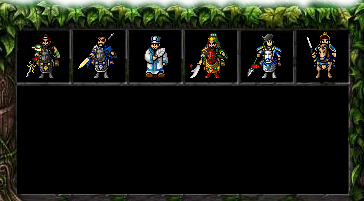
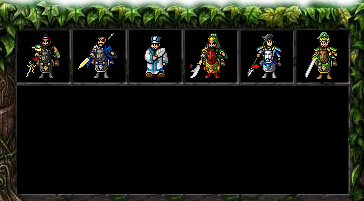
优化游戏

Changed region(s): [[0.8159, 0.1493, 0.9368, 0.3881]]

diff --git a/src/ui/layaUI.max.all.js b/src/ui/layaUI.max.all.js
@@ -45,6 +45,6 @@ var tafangUI=(function(_super){
 
 		}
 
-		tafangUI.uiView={"type":"View","props":{"width":750,"height":1250},"child":[{"type":"Image","props":{"y":75,"x":10,"width":300,"skin":"pic/bai_bg.png","height":161}},{"type":"Text","props":{"y":130,"x":25,"width":193,"var":"play1_score","text":"玩家1杀敌：","height":34,"fontSize":32,"color":"#cd1915"}},{"type":"Text","props":{"y":175,"x":25,"width":193,"var":"play2_score","text":"玩家2杀敌：","height":32,"fontSize":32,"color":"#192cb9"}},{"type":"Image","props":{"y":0,"x":0,"width":750,"var":"top_bg","skin":"pic/top_bg.png","sizeGrid":"1","height":65,"alpha":1}},{"type":"Text","props":{"y":14,"x":84,"width":123,"var":"jinbi_text","text":"0","height":34,"fontSize":32,"color":"#ffffff"}},{"type":"Text","props":{"y":14,"x":310,"width":123,"var":"mucai_text","text":"0","height":34,"fontSize":32,"color":"#ffffff"}},{"type":"Text","props":{"y":13,"x":495,"width":123,"var":"renkou_text","text":"0","height":34,"fontSize":32,"color":"#ffffff"}},{"type":"Text","props":{"y":13,"x":623,"width":105,"var":"game_time","name":"game_time","height":34,"fontSize":28,"color":"#ffffff","align":"center"}},{"type":"Text","props":{"y":85,"x":25,"width":193,"var":"jidi","text":"基地生命：30","height":34,"fontSize":32,"color":"#b514b5"}},{"type":"Label","props":{"y":553,"x":20,"wordWrap":true,"width":500,"var":"xitong_send","text":"系统提示：","strokeColor":"#de810a","stroke":1,"leading":10,"height":107,"fontSize":26,"color":"#f9ab04"}},{"type":"Label","props":{"x":20,"wordWrap":true,"width":500,"var":"send_box","top":245,"overflow":"scroll","name":"send_box","leading":10,"height":300,"fontSize":26,"color":"#ffffff"}},{"type":"Image","props":{"x":0,"width":750,"visible":false,"var":"change_build","skin":"pic/bottom.png","name":"change_build","mouseThrough":false,"mouseEnabled":true,"layoutEnabled":true,"height":390,"bottom":3},"child":[{"type":"Label","props":{"y":59,"x":36,"width":107,"var":"build_1","text":"张飞","name":"build_1","mouseEnabled":true,"layoutEnabled":true,"height":101,"fontSize":16,"color":"#ffffff"}},{"type":"Label","props":{"y":59,"x":152,"width":107,"var":"build_2","text":"夏侯惇","name":"build_2","mouseEnabled":true,"layoutEnabled":true,"height":101,"fontSize":16,"color":"#ffffff"}},{"type":"Label","props":{"y":59,"x":268,"width":107,"var":"build_3","text":"诸葛亮","name":"build_3","mouseEnabled":true,"layoutEnabled":true,"height":101,"fontSize":16,"color":"#ffffff"}},{"type":"Label","props":{"y":59,"x":383,"width":105,"var":"build_4","text":"关羽","name":"build_4","mouseEnabled":true,"layoutEnabled":true,"height":101,"fontSize":16,"color":"#ffffff"}},{"type":"Label","props":{"y":59,"x":498,"width":107,"var":"build_5","text":"赵云","name":"build_5","mouseEnabled":true,"layoutEnabled":true,"height":101,"fontSize":16,"color":"#ffffff"}},{"type":"Label","props":{"y":59,"x":612,"width":107,"var":"build_6","text":"曹操","name":"build_6","mouseEnabled":true,"layoutEnabled":true,"height":101,"fontSize":16,"color":"#ffffff"}},{"type":"Label","props":{"y":175,"x":50,"width":63,"var":"build_name","text":"张飞","layoutEnabled":true,"height":28,"fontSize":28,"color":"#f4730e","bold":true}},{"type":"Label","props":{"y":220,"x":50,"width":134,"var":"build_attack","text":"攻击：","layoutEnabled":true,"height":27,"fontSize":24,"color":"#ffffff"}},{"type":"Label","props":{"y":220,"x":216,"width":139,"var":"build_range","text":"范围：","layoutEnabled":true,"height":25,"fontSize":24,"color":"#ffffff"}},{"type":"Label","props":{"y":220,"x":386,"width":136,"var":"build_jiange","text":"速度：","layoutEnabled":true,"height":27,"fontSize":24,"color":"#ffffff"}},{"type":"Label","props":{"y":220,"x":554,"width":145,"layoutEnabled":true,"height":26,"fontSize":24,"color":"#ffffff"}},{"type":"Label","props":{"y":260,"x":50,"width":57,"text":"大招：","layoutEnabled":true,"height":23,"fontSize":24,"color":"#ffffff"}},{"type":"Label","props":{"y":260,"x":120,"wordWrap":true,"width":465,"var":"build_big_detail","text":"致命一击，每攻击5次触发一次大招。","rotation":0,"leading":10,"layoutEnabled":true,"height":116,"fontSize":24,"color":"#ffffff"}},{"type":"Label","props":{"y":178,"x":180,"width":249,"var":"build_consume","text":"消耗：500黄金、2人口","layoutEnabled":true,"height":27,"fontSize":24,"color":"#f8ee08"}},{"type":"Image","props":{"y":245,"x":590,"width":130,"var":"btn_jianzao","skin":"pic/jianzao.png","name":"btn_jianzao","mouseThrough":true,"mouseEnabled":true,"height":130}}]},{"type":"Image","props":{"y":474,"x":196,"width":356,"visible":false,"var":"btn_shengli","skin":"pic/shengli.png","mouseThrough":true,"mouseEnabled":true,"height":144}},{"type":"Image","props":{"y":475,"x":197,"width":353,"visible":false,"var":"btn_shibai","skin":"pic/shibai.png","mouseThrough":true,"mouseEnabled":true,"height":143}}]};
+		tafangUI.uiView={"type":"View","props":{"width":750,"height":1250},"child":[{"type":"Image","props":{"y":75,"x":10,"width":300,"skin":"pic/bai_bg.png","height":161}},{"type":"Text","props":{"y":130,"x":25,"width":193,"var":"play1_score","text":"玩家1杀敌：","height":34,"fontSize":32,"color":"#cd1915"}},{"type":"Text","props":{"y":175,"x":25,"width":193,"var":"play2_score","text":"玩家2杀敌：","height":32,"fontSize":32,"color":"#192cb9"}},{"type":"Image","props":{"y":0,"x":0,"width":750,"var":"top_bg","skin":"pic/top_bg.png","sizeGrid":"1","height":65,"alpha":1}},{"type":"Text","props":{"y":14,"x":84,"width":123,"var":"jinbi_text","text":"0","height":34,"fontSize":32,"color":"#ffffff"}},{"type":"Text","props":{"y":14,"x":310,"width":123,"var":"mucai_text","text":"0","height":34,"fontSize":32,"color":"#ffffff"}},{"type":"Text","props":{"y":13,"x":495,"width":123,"var":"renkou_text","text":"0","height":34,"fontSize":32,"color":"#ffffff"}},{"type":"Text","props":{"y":13,"x":623,"width":105,"var":"game_time","name":"game_time","height":34,"fontSize":28,"color":"#ffffff","align":"center"}},{"type":"Text","props":{"y":85,"x":25,"width":193,"var":"jidi","text":"基地生命：30","height":34,"fontSize":32,"color":"#b514b5"}},{"type":"Label","props":{"y":553,"x":20,"wordWrap":true,"width":500,"var":"xitong_send","text":"系统提示：","strokeColor":"#de810a","stroke":1,"leading":10,"height":107,"fontSize":26,"color":"#f9ab04"}},{"type":"Label","props":{"x":20,"wordWrap":true,"width":500,"var":"send_box","top":245,"overflow":"scroll","name":"send_box","leading":10,"height":300,"fontSize":26,"color":"#ffffff"}},{"type":"Image","props":{"x":0,"width":750,"visible":false,"var":"change_build","skin":"pic/bottom.png","name":"change_build","mouseThrough":false,"mouseEnabled":true,"layoutEnabled":true,"height":390,"bottom":3},"child":[{"type":"Label","props":{"y":59,"x":36,"width":107,"var":"build_1","text":"张飞","name":"build_1","mouseEnabled":true,"layoutEnabled":true,"height":101,"fontSize":16,"color":"#ffffff"}},{"type":"Label","props":{"y":59,"x":152,"width":107,"var":"build_2","text":"夏侯惇","name":"build_2","mouseEnabled":true,"layoutEnabled":true,"height":101,"fontSize":16,"color":"#ffffff"}},{"type":"Label","props":{"y":59,"x":268,"width":107,"var":"build_3","text":"诸葛亮","name":"build_3","mouseEnabled":true,"layoutEnabled":true,"height":101,"fontSize":16,"color":"#ffffff"}},{"type":"Label","props":{"y":59,"x":383,"width":105,"var":"build_4","text":"关羽","name":"build_4","mouseEnabled":true,"layoutEnabled":true,"height":101,"fontSize":16,"color":"#ffffff"}},{"type":"Label","props":{"y":59,"x":498,"width":107,"var":"build_5","text":"赵云","name":"build_5","mouseEnabled":true,"layoutEnabled":true,"height":101,"fontSize":16,"color":"#ffffff"}},{"type":"Label","props":{"y":59,"x":612,"width":107,"var":"build_6","text":"刘备","name":"build_6","mouseEnabled":true,"layoutEnabled":true,"height":101,"fontSize":16,"color":"#ffffff"}},{"type":"Label","props":{"y":175,"x":50,"width":63,"var":"build_name","text":"张飞","layoutEnabled":true,"height":28,"fontSize":28,"color":"#f4730e","bold":true}},{"type":"Label","props":{"y":220,"x":50,"width":134,"var":"build_attack","text":"攻击：","layoutEnabled":true,"height":27,"fontSize":24,"color":"#ffffff"}},{"type":"Label","props":{"y":220,"x":216,"width":139,"var":"build_range","text":"范围：","layoutEnabled":true,"height":25,"fontSize":24,"color":"#ffffff"}},{"type":"Label","props":{"y":220,"x":386,"width":136,"var":"build_jiange","text":"速度：","layoutEnabled":true,"height":27,"fontSize":24,"color":"#ffffff"}},{"type":"Label","props":{"y":220,"x":554,"width":145,"layoutEnabled":true,"height":26,"fontSize":24,"color":"#ffffff"}},{"type":"Label","props":{"y":260,"x":50,"width":57,"text":"大招：","layoutEnabled":true,"height":23,"fontSize":24,"color":"#ffffff"}},{"type":"Label","props":{"y":260,"x":120,"wordWrap":true,"width":465,"var":"build_big_detail","text":"致命一击，每攻击5次触发一次大招。","rotation":0,"leading":10,"layoutEnabled":true,"height":116,"fontSize":24,"color":"#ffffff"}},{"type":"Label","props":{"y":178,"x":180,"width":249,"var":"build_consume","text":"消耗：500黄金、2人口","layoutEnabled":true,"height":27,"fontSize":24,"color":"#f8ee08"}},{"type":"Image","props":{"y":245,"x":590,"width":130,"var":"btn_jianzao","skin":"pic/jianzao.png","name":"btn_jianzao","mouseThrough":true,"mouseEnabled":true,"height":130}}]},{"type":"Image","props":{"y":474,"x":196,"width":356,"visible":false,"var":"btn_shengli","skin":"pic/shengli.png","mouseThrough":true,"mouseEnabled":true,"height":144}},{"type":"Image","props":{"y":475,"x":197,"width":353,"visible":false,"var":"btn_shibai","skin":"pic/shibai.png","mouseThrough":true,"mouseEnabled":true,"height":143}}]};
 		return tafangUI;
 	})(View);

diff --git a/src/Game.js b/src/Game.js
@@ -39,10 +39,10 @@ var tafang = (function(_Laya){
         //当前选中的英雄
         this.selectBuild = null;
 
-        //测试参数
-        // this.guaiStartTime = 1000;
-        // this.guaiSpeed = 500;
-        // this.nextTime = 2;
+        //测试参数 
+         this.guaiStartTime = 1000;
+         //this.guaiSpeed = 500;
+         this.nextTime = 2;
         // this.guaiLength = 2;
         // this.lvExp = 1;
         // this.bossJiange = 2;
@@ -57,7 +57,7 @@ var tafang = (function(_Laya){
             'renkou' : 2,
             'mucai' : 0,
             'camp' : playerCamp,
-            'attack' : 900,
+            'attack' : 800,
             'range' : 450,
             'bigRange': 450,
             'bigType' : 3,
@@ -77,10 +77,10 @@ var tafang = (function(_Laya){
             'range' : 450,
             'bigRange' : 600,
             'bigType' : 1,
-            'bigDetail' : '掌控自然之力，召唤超级龙卷风对敌人发起攻击，每攻击10次触发一次。',
+            'bigDetail' : '掌控自然之力，召唤超级龙卷风对敌人发起攻击，每攻击8次触发一次。',
             'miji': '无',
             'jiange' : 1000,
-            'maxLen' : 10,
+            'maxLen' : 8,
             'lv' : 1
         },
         {
@@ -101,7 +101,7 @@ var tafang = (function(_Laya){
         },
         {
             'name' : '关羽',
-            'jinbi' : 8000,
+            'jinbi' : 7000,
             'renkou' : 4,
             'mucai' : 0,
             'camp' : playerCamp,
@@ -117,7 +117,7 @@ var tafang = (function(_Laya){
         },
         {
             'name' : '赵云',
-            'jinbi' : 25000,
+            'jinbi' : 20000,
             'renkou' : 5,
             'mucai' : 3,
             'camp' : playerCamp,
@@ -128,12 +128,12 @@ var tafang = (function(_Laya){
             'bigDetail' : '抢刃风暴，疯狂旋转百鸟朝凤枪，形成飓风攻击周围大片敌人，每攻击3次触发一次。攻击太高写不下...',
             'miji': '无',
             'jiange' : 1000,
-            'maxLen' : 5,
+            'maxLen' : 3,
             'lv' : 1
         },
         {
             'name' : '刘备',
-            'jinbi' : 90000,
+            'jinbi' : 50000,
             'renkou' : 5,
             'mucai' : 7,
             'camp' : playerCamp,
@@ -194,6 +194,7 @@ var tafang = (function(_Laya){
                 var loadBox = document.getElementById('loading');
                 loadBox.style.display = 'none';
                 //添加怪物容器
+                gameSelf.guaiBox.zOrder = 5;
                 gameSelf.guaiBox.pos(0,0);
                 gameSelf.guaiBox.name = 'guaiBox';
                 gameSelf.guaiBox.size(self.tiledMap.width, self.tiledMap.height);
@@ -222,6 +223,7 @@ var tafang = (function(_Laya){
                     gameSelf.startGuai();
                 })
                 
+                
 
                 //添加建筑层
                 self.MapBg = new Laya.Sprite();
@@ -229,6 +231,18 @@ var tafang = (function(_Laya){
                 self.MapBg.name = 'MapBg';
                 self.MapBg.size(self.tiledMap.width, self.tiledMap.height);
                 Laya.stage.addChild(self.MapBg);
+
+
+                //添加传送阵
+                var animation = Laya.Animation;
+                animation.createFrames(['pic/chuansong1.png','pic/chuansong2.png','pic/chuansong3.png'],'chuansong');
+                var chuansong = new Laya.Animation();
+                chuansong.size(100,100);
+                chuansong.interval = 200;
+                chuansong.x = -40;
+                chuansong.y = 500;
+                self.MapBg.addChild(chuansong);
+                chuansong.play(0,true,'chuansong');
 
                 //初始化位置
                 this.setPos(500,0);
@@ -241,7 +255,7 @@ var tafang = (function(_Laya){
                 gameSelf.gameinfo.addJifen(0,2);
 
                 //初始化资源
-                gameSelf.gameinfo.addJinbi(800);
+                gameSelf.gameinfo.addJinbi(500);
                 gameSelf.gameinfo.addMucai(10);
                 gameSelf.gameinfo.addRenkou(20);
                 
@@ -348,7 +362,7 @@ var tafang = (function(_Laya){
         gameinfo.build_consume.text = '消耗：'+thisBuildData.jinbi+'黄金、'+thisBuildData.renkou+'人口、'+thisBuildData.mucai+'木材';
         gameinfo.build_attack.text = '攻击：'+thisBuildData.attack;
         gameinfo.build_range.text = '范围：'+thisBuildData.range;
-        gameinfo.build_jiange.text = '攻速：'+thisBuildData.jiange/10;
+        gameinfo.build_jiange.text = '攻速：'+parseInt(100+(1000-thisBuildData.jiange)/10);
         gameinfo.build_big_detail.text = thisBuildData.bigDetail;
 
     };
@@ -514,11 +528,11 @@ var tafang = (function(_Laya){
                 if(boshu%this.bossJiange==0){
                     thisNum+=29;
                     if(boshu==60){
-                        thisGuai.init('guaiwu_player1','boss'+bossName,500*boshu*boshu*30,4,10+boshu*10,true); //阵营，名字，血量，移动速度，携带金币
+                        thisGuai.init('guaiwu_player1','boss'+bossName,600*boshu*boshu*30,4,boshu*50,true); //阵营，名字，血量，移动速度，携带金币
                         gameSelf.send('终极BOSS来袭，绝对不能放走它，不然就前功尽弃了！',true); 
                         Laya.timer.clear(this,shuaGuai);
                     }else{
-                        thisGuai.init('guaiwu_player1','boss'+bossName,500*boshu*boshu*25,4,10+boshu*10,true); //阵营，名字，血量，移动速度，携带金币
+                        thisGuai.init('guaiwu_player1','boss'+bossName,600*boshu*boshu*22,4,boshu*50,true); //阵营，名字，血量，移动速度，携带金币
                         gameSelf.send('警告：BOSS来袭，抓紧防御！',true);
                         setTimeout(function(){
                             gameSelf.send('',true);
@@ -528,8 +542,7 @@ var tafang = (function(_Laya){
                     bossName++;
                     if(bossName>4){bossName=1;}
                 }else{
-                    
-                    thisGuai.init('guaiwu_player1','guai'+guaiName,500*boshu*boshu,4+parseInt(boshu*0.06),10+boshu*5); //阵营，名字，血量，移动速度，携带金币
+                    thisGuai.init('guaiwu_player1','guai'+guaiName,600*boshu*boshu,4+parseInt(boshu*0.06),20+boshu*2); //阵营，名字，血量，移动速度，携带金币
                 }
                 
                 thisGuai.pos(-50,500);
@@ -565,18 +578,24 @@ var tafang = (function(_Laya){
             
             if(guai && guai.camp=='guaiwu_player1'){
                 //移动玩家1的怪物
-                if(guai.x>=3020){
+                if(guai.x>=3000){
                     guai.y += guai.run;
                 }else{
                     guai.x += guai.run;
                 };
                 //怪物通过，游戏生命减少
-                if(guai.y>=2000){
+                if(guai.y>=1800){
 
                     if(/boss/.test(guai.name)){
                         //基地血量信息
-                        this.jidiHp-=4;
-                        this.send('出逃1个BOSS，基地生命剩余'+this.jidiHp);
+                        if(guai.name=='boss4'){
+                            this.jidiHp=0;
+                            this.send('终极BOSS进入基地，基地生命剩余'+this.jidiHp);
+                        }else{
+                            this.jidiHp-=4;
+                            this.send('出逃1个BOSS，基地生命剩余'+this.jidiHp);
+                        };
+                        
                     }else{
                         //基地血量信息
                         this.jidiHp--;
@@ -587,12 +606,10 @@ var tafang = (function(_Laya){
 
                     
 
-                    //移除
-                    guai.removeSelf();
-                    //隐藏
-                    guai.visible = false;
+                    
+                    //console.log(guai)
                     //回收动画
-                    Laya.Pool.recover('guai',guai);
+                    //Laya.Pool.recover('guai',guai);
 
                     //设置游戏生命
                     if(guai.name=="boss4" || this.jidiHp<=0){
@@ -607,6 +624,11 @@ var tafang = (function(_Laya){
                         });
                         
                     };
+
+                    //移除
+                    guai.y = 3000;
+                    guai.removeSelf();
+                    guai.destroy(true);
                     
                 }
             

diff --git a/src/CreateBuild.js b/src/CreateBuild.js
@@ -78,6 +78,8 @@
 
 
             animation.createFrames(['pic/buff1.png','pic/buff2.png','pic/buff3.png'],'build_buff');
+
+            
             
             //animation.createFrames(['pic/zidan.png'],this.name+'jineng1');
             isCache = true;
@@ -112,6 +114,7 @@
         //建筑绑定事件
         this.on(Event.CLICK, this);
 
+        
 
     };
     //播放动画
@@ -283,7 +286,7 @@
                         this.alength = 0;
                         //夏侯惇大招
                         if(this.bigType==1){
-                            zidan.init(this.name+'_'+'jineng2',4,parseInt(this.attack/6)); //技能名称，技能移动速度，技能攻击力
+                            zidan.init(this.name+'_'+'jineng2',4,parseInt(this.attack/5)); //技能名称，技能移动速度，技能攻击力
                             zidan.pos(-3,-20);
                             this.addChild(zidan);
                         }else if(this.bigType==2){
@@ -312,7 +315,7 @@
                             this.action('baoji');
                         }else if(this.bigType == 5){
                             //赵云大招
-                            zidan.init(this.name+'_'+'jineng2',10,this.attack/6,this.lv*1500); //技能名称，技能移动速度，技能攻击力
+                            zidan.init(this.name+'_'+'jineng2',10,this.attack/5,this.lv*1500); //技能名称，技能移动速度，技能攻击力
                             zidan.pos(-240,-260);
                             this.addChild(zidan);
                             //添加释放大招的状态

diff --git a/src/Map.js b/src/Map.js
@@ -92,7 +92,7 @@ var CreateMap = (function(_TiledMap,_Rectangle,_Handler,_Browser,_MapLayer){
         var x = mX - (Laya.stage.mouseX - mLastMouseX),
             y = mY - (Laya.stage.mouseY - mLastMouseY),
             maxX = this.tiledMap.width - 750,
-            maxY = this.tiledMap.height - 1250-90;
+            maxY = this.tiledMap.height - 1250; //-90
         
         //设置地图边界
         if(x<0){x=this.mX=0;};
@@ -106,6 +106,8 @@ var CreateMap = (function(_TiledMap,_Rectangle,_Handler,_Browser,_MapLayer){
         //隐藏列表
         tafang.gameinfo.change_build.visible = false;
         this.change_rect.graphics.clear();
+        //隐藏信息
+        dialog_box.style.display = 'none';
     };
 
     

diff --git a/src/CreateGuai.js b/src/CreateGuai.js
@@ -157,7 +157,6 @@
             
 
             this.removeSelf();
-            this.visible = false;
             this.destroy(true);
 
             //是否是最后一个大BOSS
